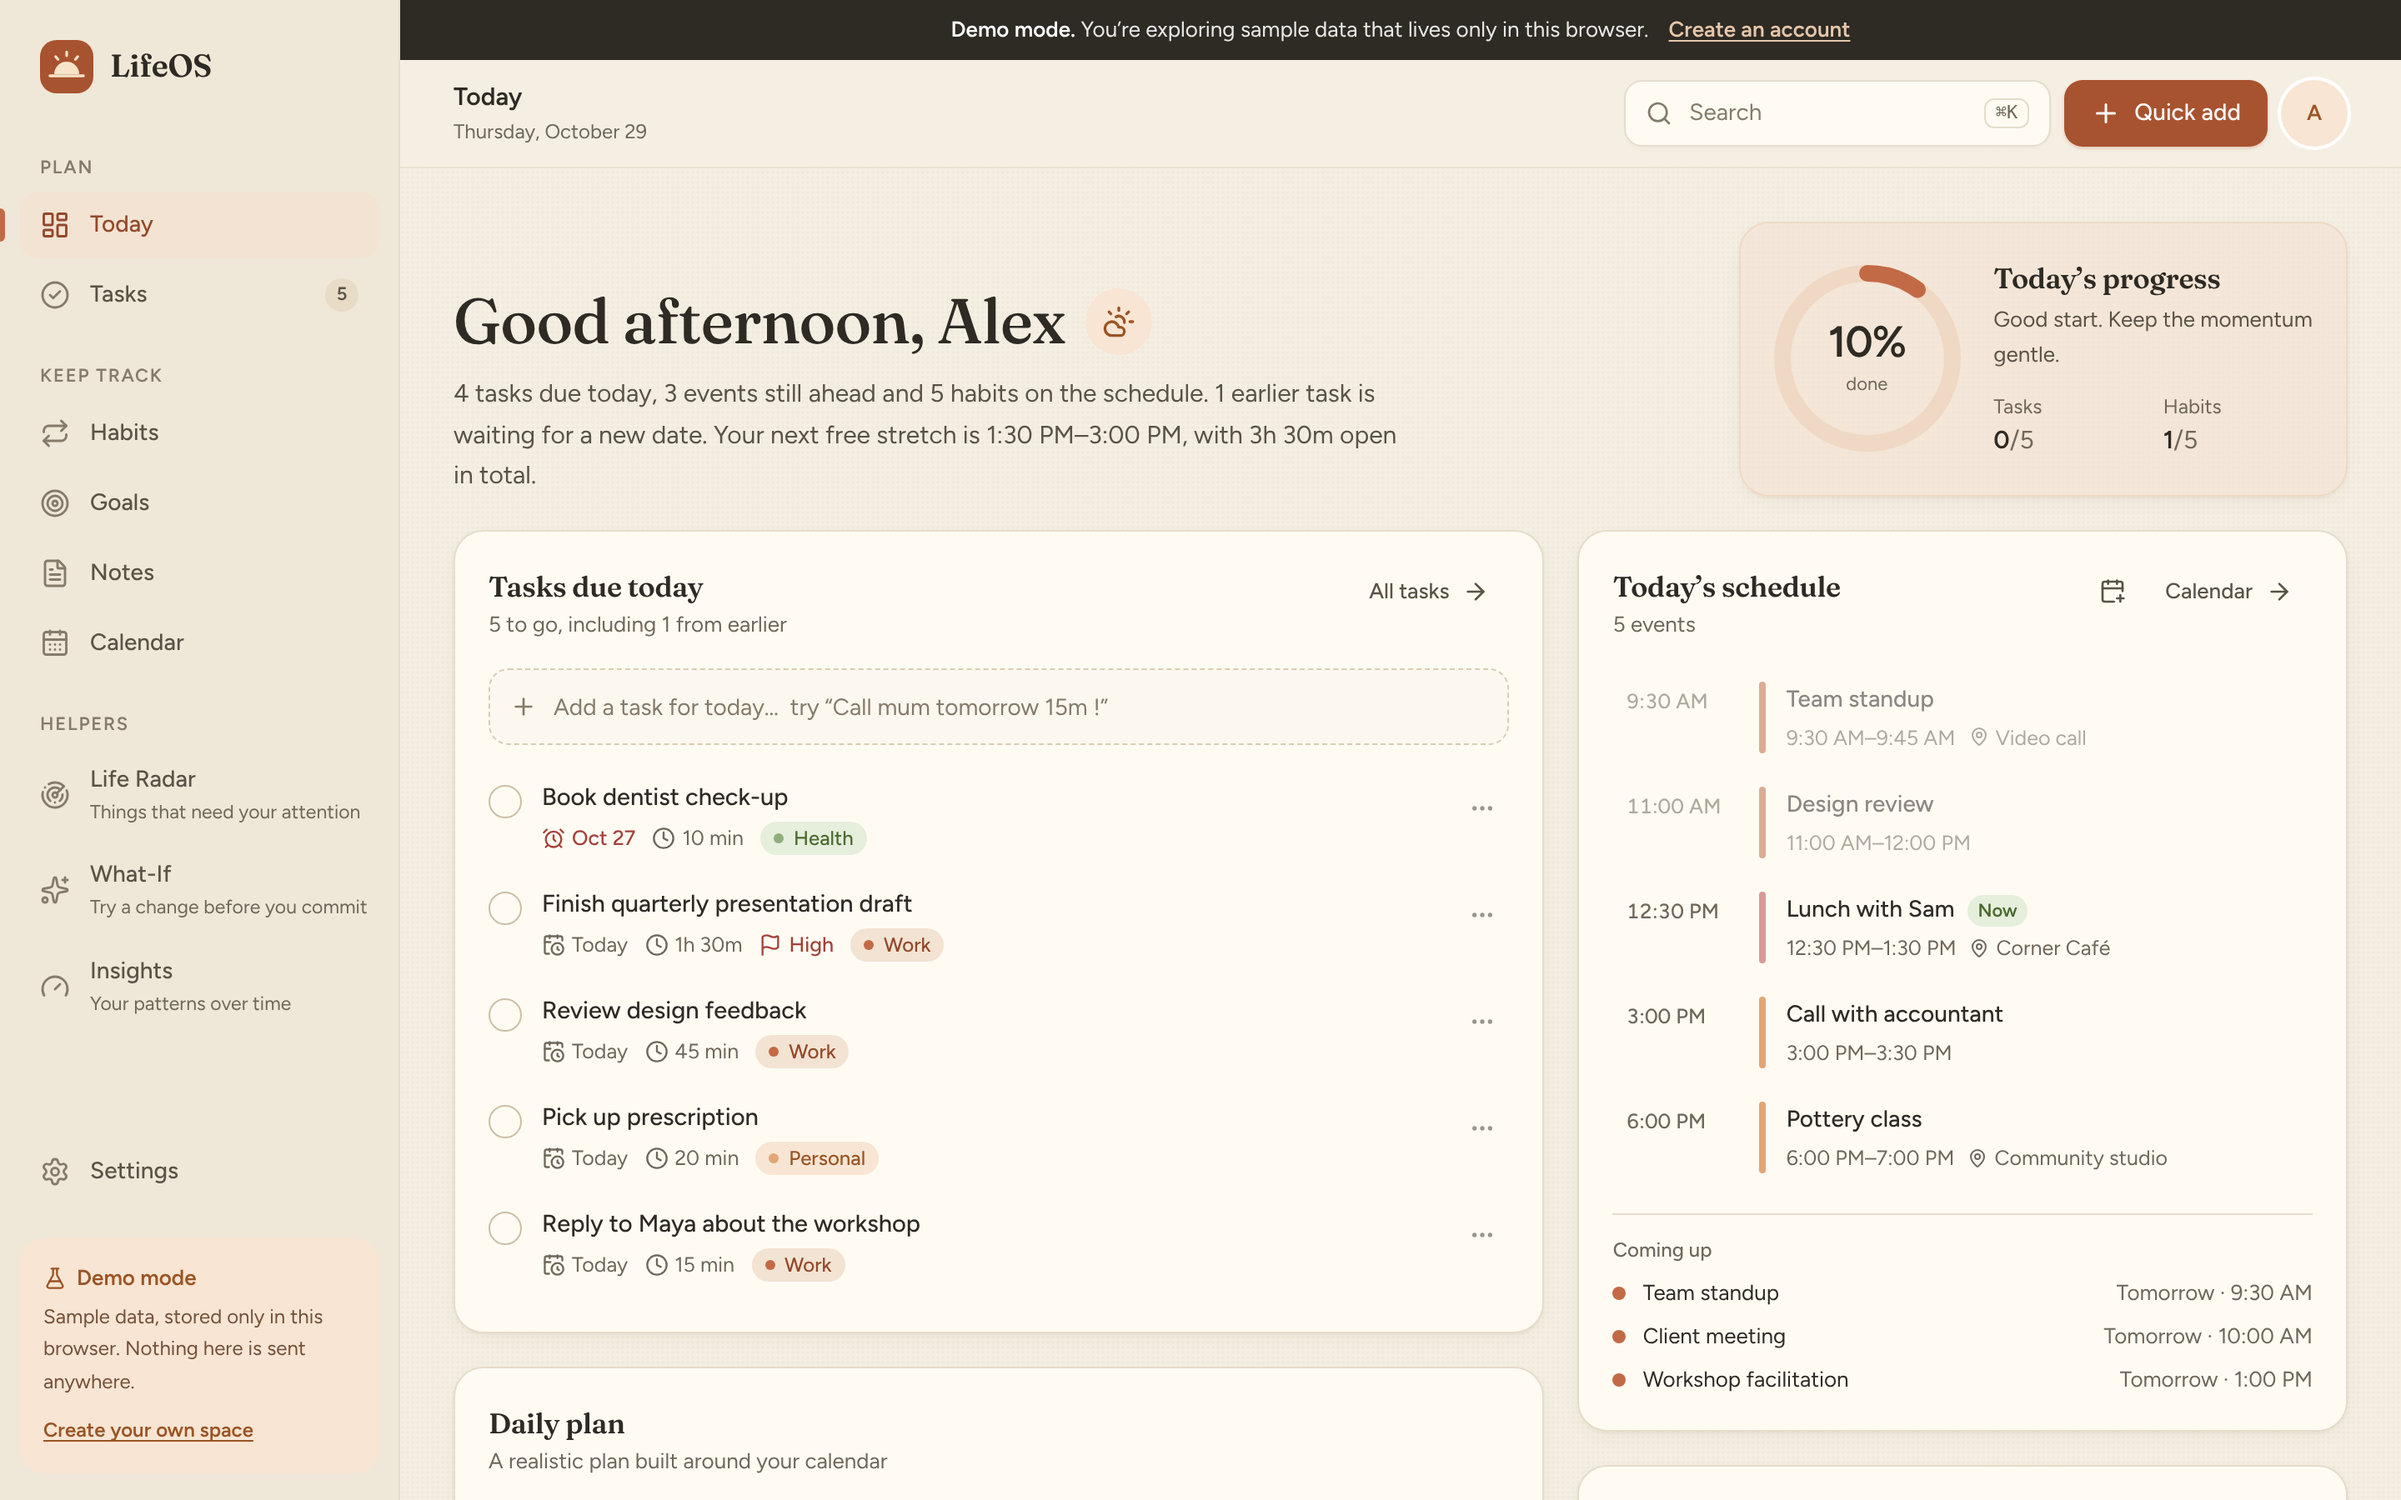
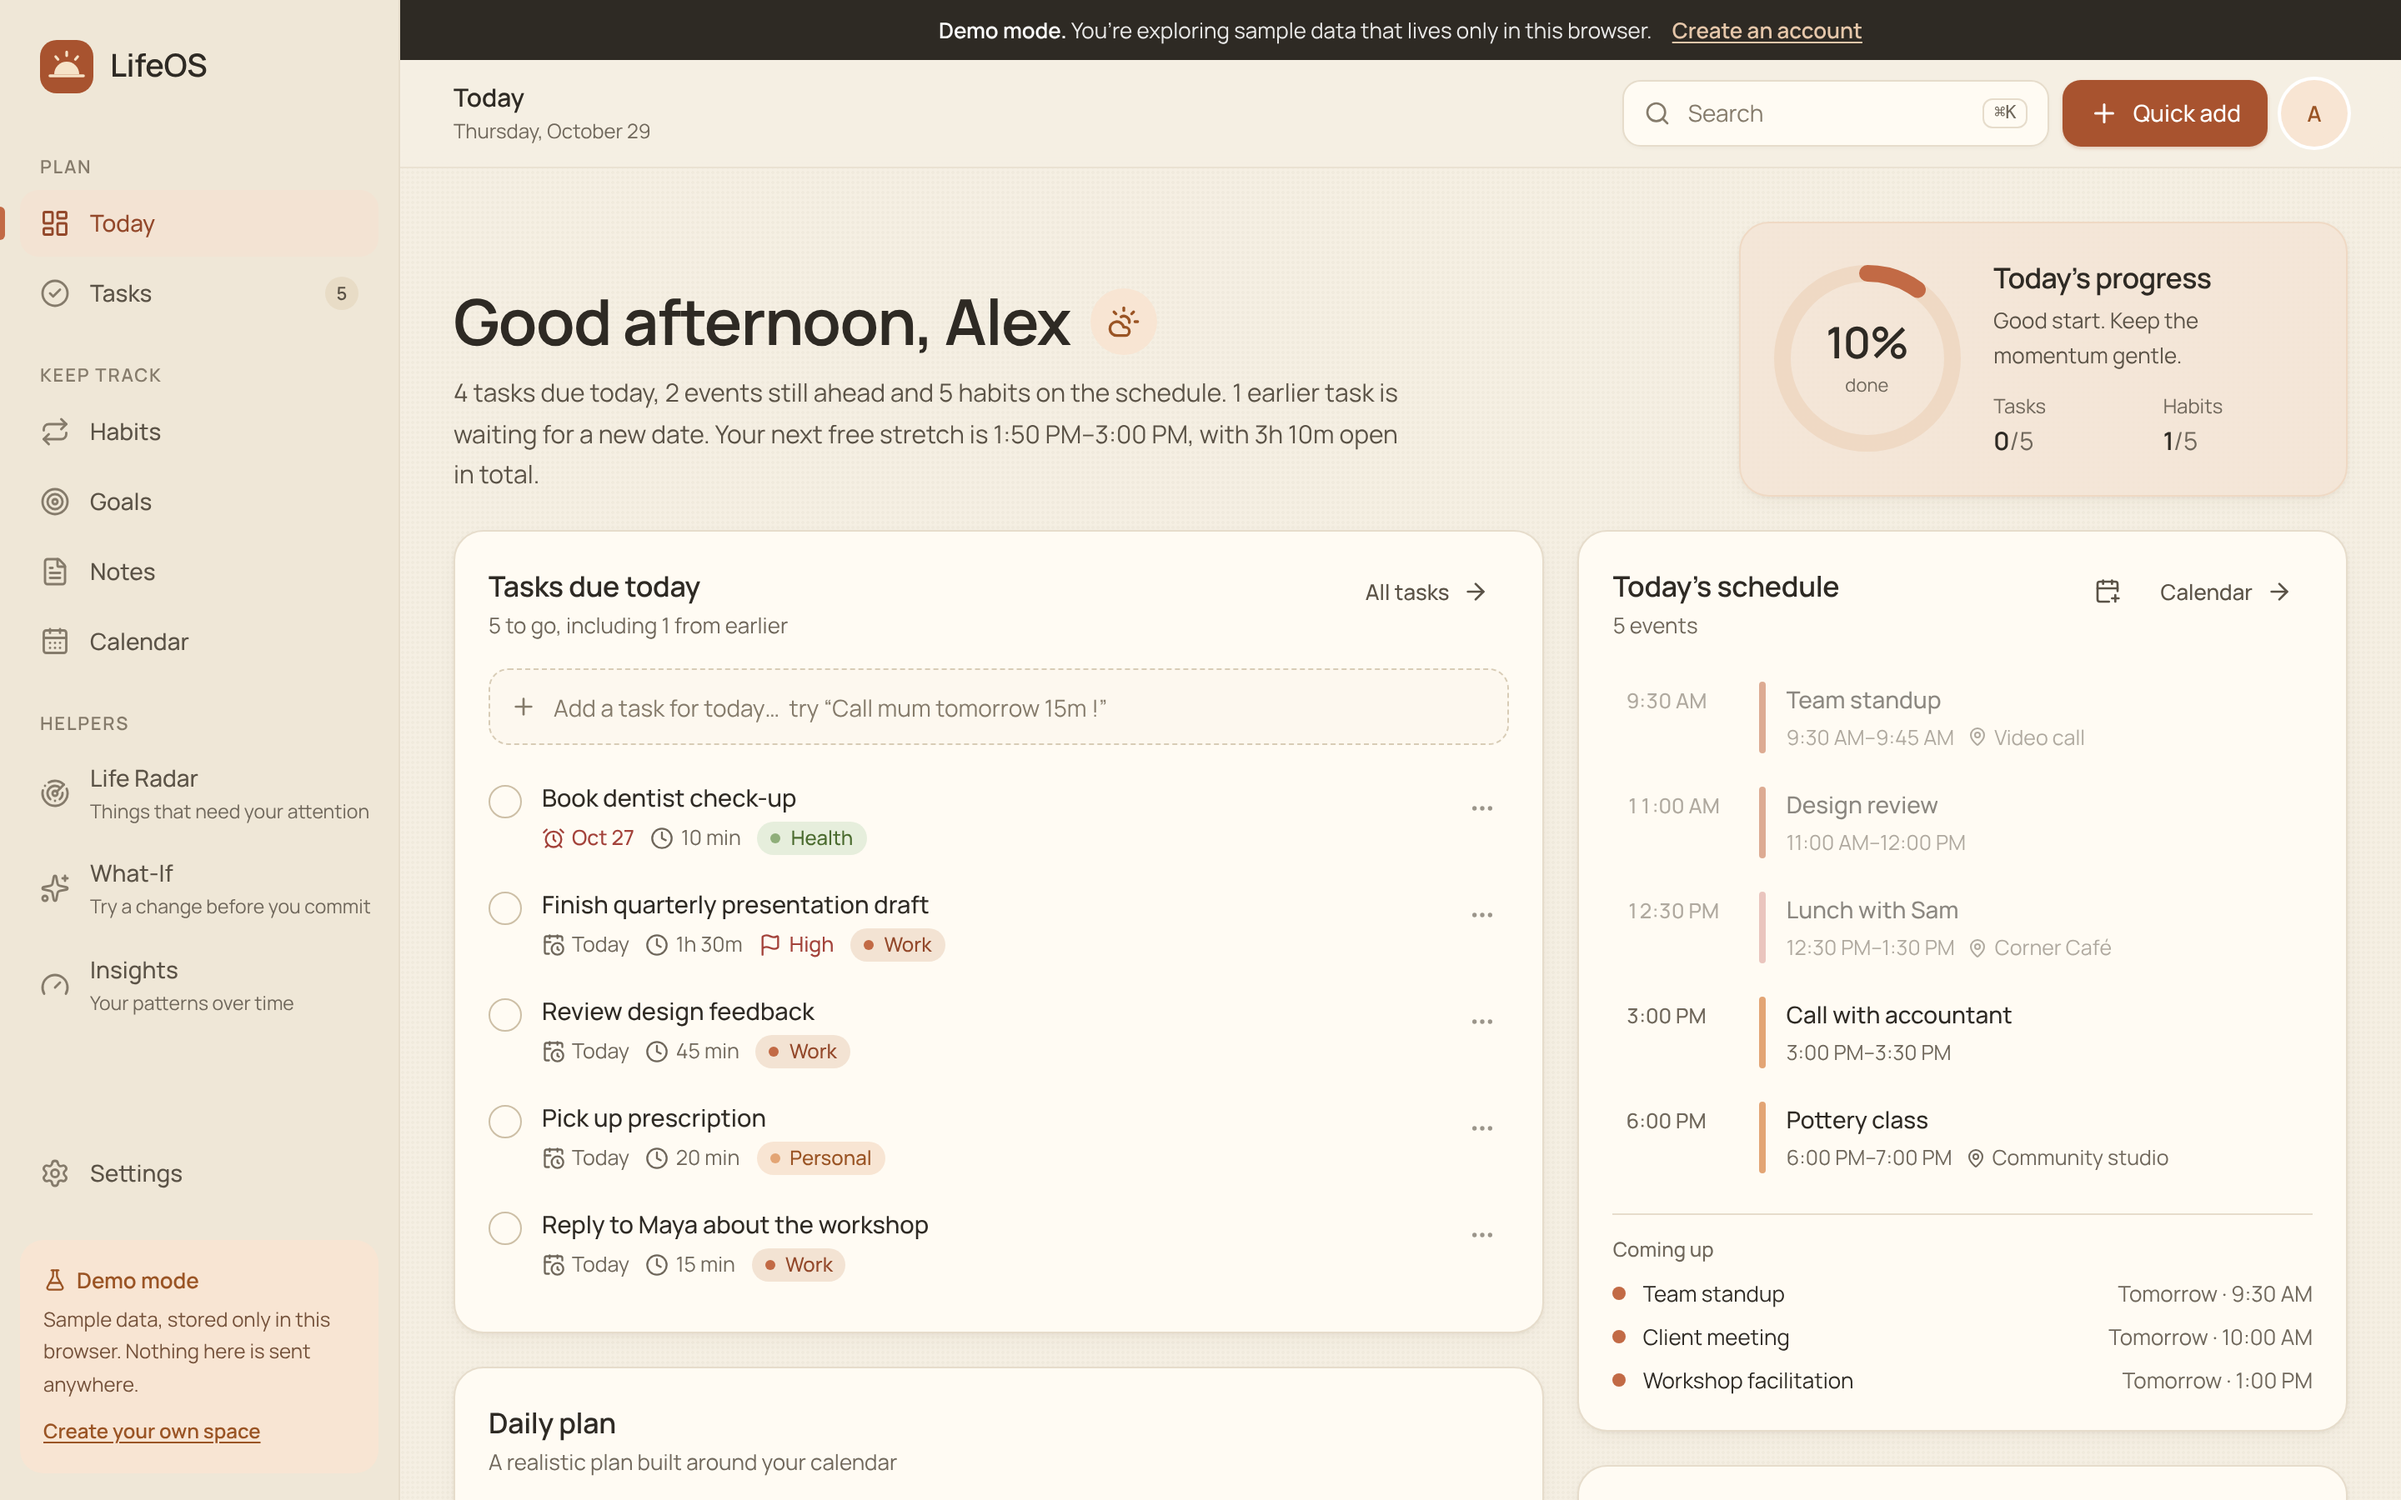
Switch to Manrope for headings and text, with Greek support
The previous Fraunces/Figtree pair had no Greek glyphs, so anything typed
in Greek fell back to the system font. Landing screenshots retaken.

Claude-Session: https://claude.ai/code/session_01Pu2eQNTY5xEDNxCL57uXRT

diff --git a/src/app/layout.tsx b/src/app/layout.tsx
@@ -1,10 +1,10 @@
 import type { Metadata, Viewport } from "next";
-import { Figtree, Fraunces } from "next/font/google";
+import { Manrope } from "next/font/google";
 import { Toaster } from "sonner";
 import "./globals.css";
 
-const body = Figtree({ variable: "--font-body", subsets: ["latin"] });
-const serif = Fraunces({ variable: "--font-serif", subsets: ["latin"], axes: ["opsz", "SOFT"] });
+// One family for headings and text; it includes Greek so notes and tasks typed in Greek match.
+const manrope = Manrope({ variable: "--font-body", subsets: ["latin", "greek"] });
 
 export const metadata: Metadata = {
   title: { default: "LifeOS — Your life, beautifully organized", template: "%s · LifeOS" },
@@ -20,7 +20,7 @@ export const viewport: Viewport = {
 
 export default function RootLayout({ children }: LayoutProps<"/">) {
   return (
-    <html lang="en" data-theme="light" className={`${body.variable} ${serif.variable} h-full antialiased`}>
+    <html lang="en" data-theme="light" className={`${manrope.variable} h-full antialiased`}>
       <body className="min-h-full">
         {children}
         <Toaster

diff --git a/src/app/globals.css b/src/app/globals.css
@@ -66,7 +66,7 @@
   --color-danger: var(--danger);
   --color-ring: var(--ring);
   --font-sans: var(--font-body), ui-sans-serif, system-ui, sans-serif;
-  --font-display: var(--font-serif), ui-serif, Georgia, serif;
+  --font-display: var(--font-body), ui-sans-serif, system-ui, sans-serif;
   --font-mono: ui-monospace, SFMono-Regular, Menlo, monospace;
   --radius-card: 18px;
   --radius-control: 11px;
@@ -94,11 +94,10 @@
   h2,
   .font-display {
     font-family: var(--font-display);
-    font-optical-sizing: auto;
-    letter-spacing: -0.01em;
+    letter-spacing: -0.02em;
   }
   h1 {
-    font-weight: 500;
+    font-weight: 650;
   }
   :focus-visible {
     outline: 2px solid var(--ring);

diff --git a/PROGRESS.md b/PROGRESS.md
@@ -15,7 +15,7 @@ Last updated: 2026-10-29
 
 ## 2026-10-29 redesign
 
-- Warm cream palette (terracotta primary, sage, clay, dusty blue), Fraunces headings and Figtree body text, a paper-grain background and a new sunrise logo. Text and button colours re-checked against WCAG AA.
+- Warm cream palette (terracotta primary, sage, clay, dusty blue), Manrope throughout (with Greek support), a paper-grain background and a new sunrise logo. Text and button colours re-checked against WCAG AA.
 - Notes: blank notes are no longer kept. A note left empty is discarded when you leave it, "New note" reuses an existing blank note, old blanks are tidied on open, and the writing area is a clearly marked lined surface that gets focus.
 - Navigation: sidebar grouped into Plan / Keep track / Helpers with one-line descriptions for the less obvious pages, a five-tab bar on phones, the page purpose in the header, a dismissible "how this page works" tip on every page (can be shown again from Settings), and a getting-started checklist on the dashboard for new accounts.
 - Small icon animations on hover and on the active page, gently floating icons in empty states; all off under reduced motion.
